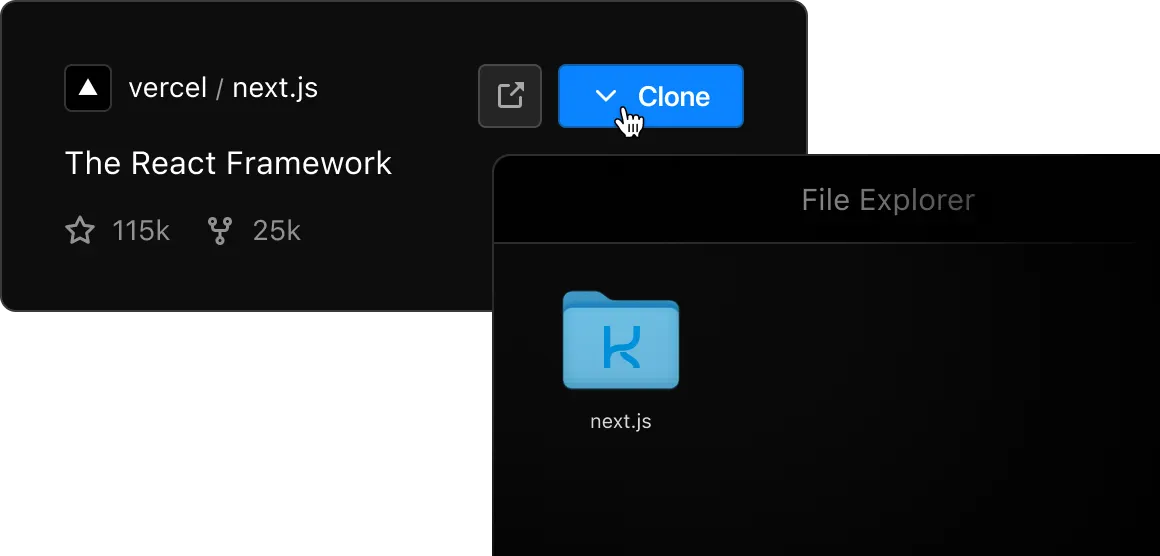
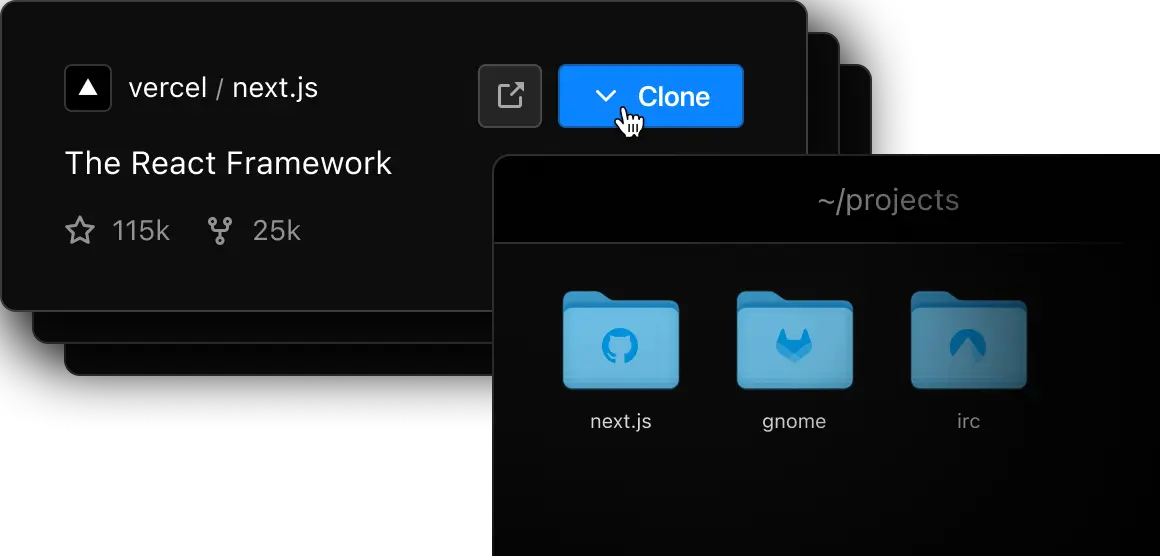
(landing) update integration image and window image

diff --git a/src/pages/_index.scss b/src/pages/_index.scss
@@ -685,6 +685,7 @@ main.index {
                         gap: 1rem;
                         width: 100%;
                         font-family: "SF Pro Text", var(--font-primary);
+                        margin-top: auto;
 
                         .inputbar {
                             display: flex;
